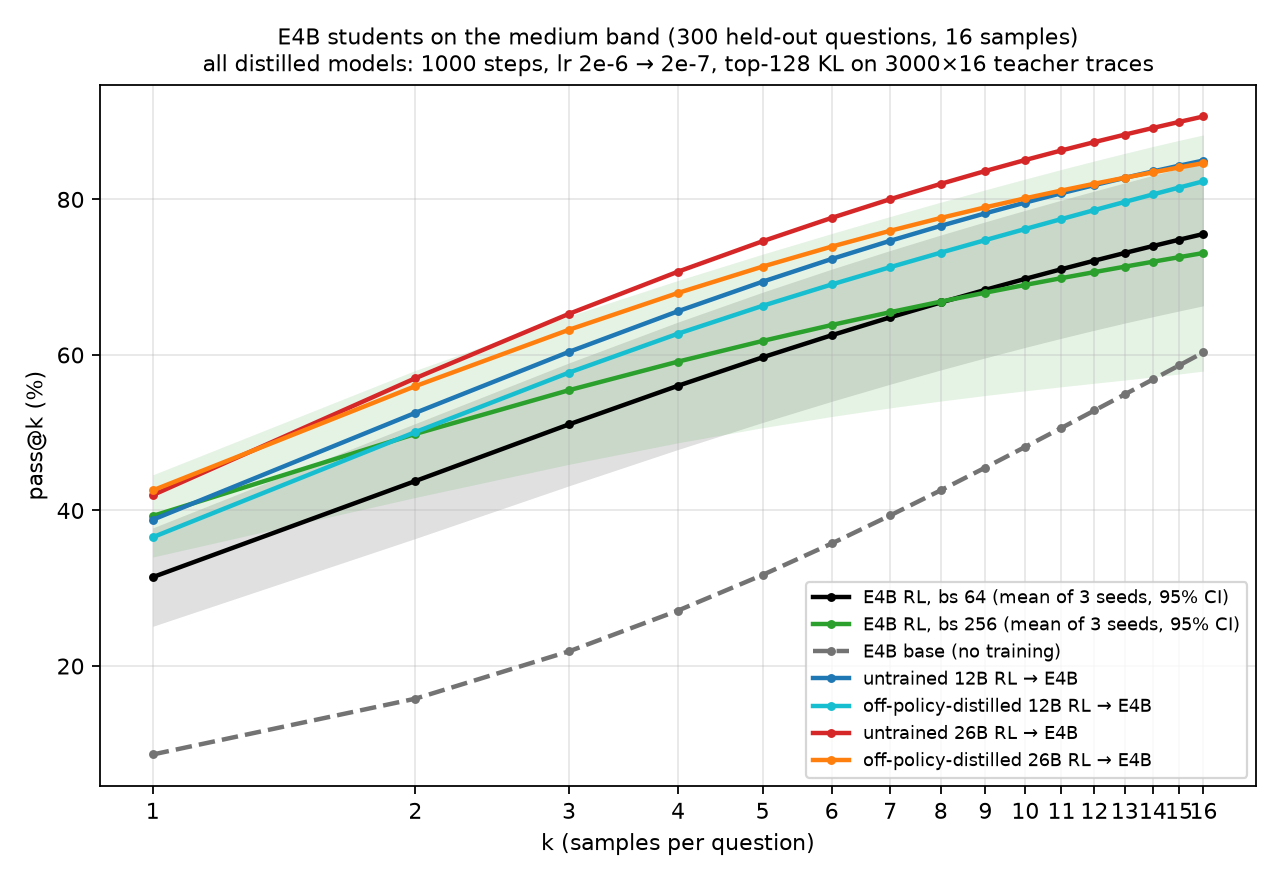
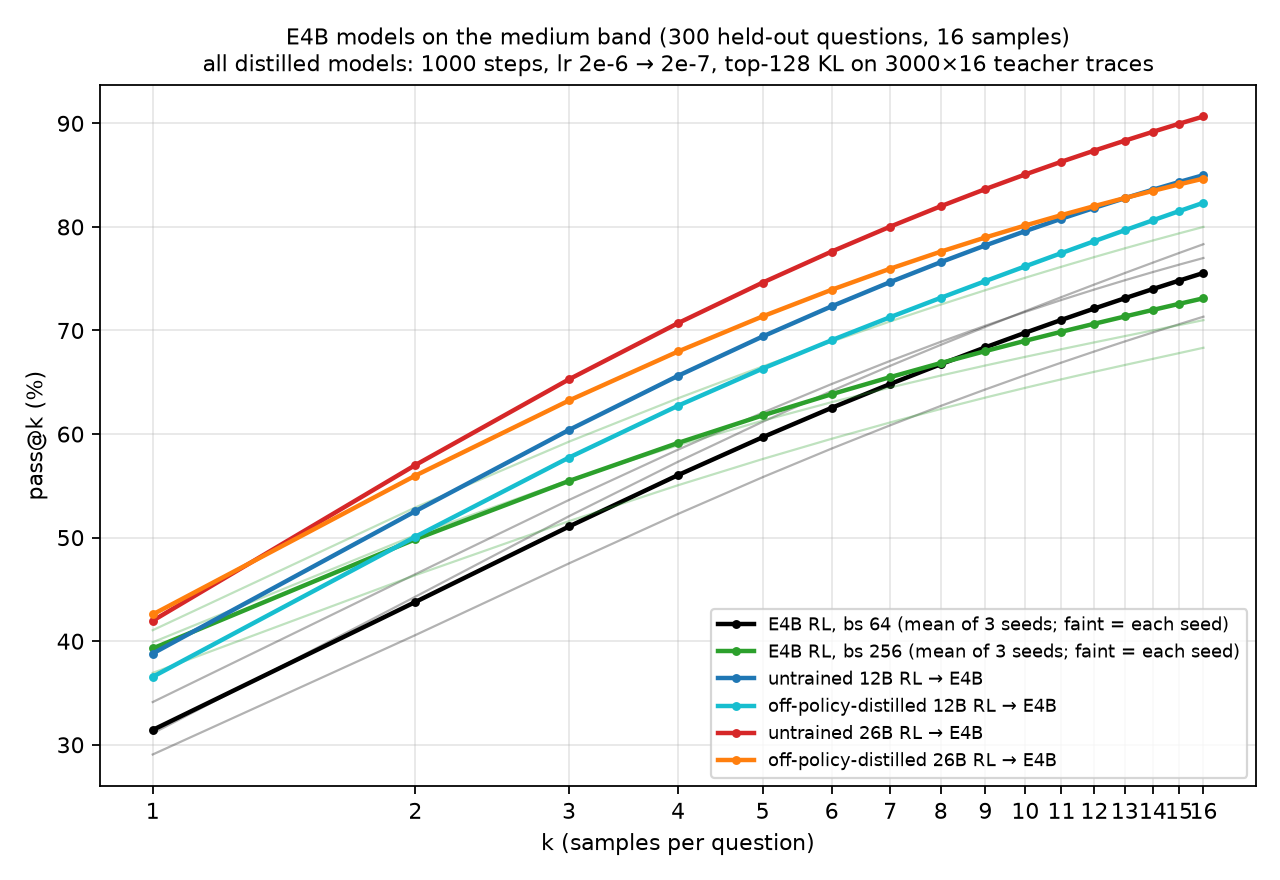
§9.0o summary figure: per-seed faint lines instead of CI bands, E4B base curve removed

diff --git a/rl-distill-scripts/plot_medium_passk_summary.py b/rl-distill-scripts/plot_medium_passk_summary.py
@@ -2,8 +2,7 @@
 """One-panel id_medium pass@k summary of the E4B distillation study (§9.0o wrap-up).
 
 Curves (unbiased pass@k, Chen et al. 2021, from the per-sample math-eval traces, 300 questions × 16 samples):
-  E4B base; E4B RL (bs 64, seeds 42/43/44) and E4B RL 4× batch (bs 256, seeds 45/46/47) as seed means with faint 95% CIs
-  (t-distribution, n = 3); and the four 1000-step 2e-6 → 2e-7 distilled students — teacher = untrained-12B RL, off-policy-distilled-12B RL,
+  E4B RL (bs 64, seeds 42/43/44) and E4B RL 4× batch (bs 256, seeds 45/46/47) as seed means with each seed as a faint line; and the four 1000-step 2e-6 → 2e-7 distilled students — teacher = untrained-12B RL, off-policy-distilled-12B RL,
   untrained-26B RL (warm-started run), off-policy-distilled-26B RL.
 
     python rl-distill-scripts/plot_medium_passk_summary.py [--out figures/passk_id_medium_summary.png]
@@ -13,27 +12,25 @@ from __future__ import annotations
 
 import argparse
 import json
-from math import comb, sqrt
+from math import comb
 from pathlib import Path
 
 import matplotlib
 matplotlib.use("Agg")
 import matplotlib.pyplot as plt
 import numpy as np
-from scipy import stats
 
 RESULTS = Path("/tmp/gemma4_distill_study_eval/results")
 DATASET = "id_medium"
 SINGLES = [  # (tag, label, color)
-    ("base_e4b", "E4B base (no training)", "0.45"),
     ("distill_12br_lr2e6_medium_to_e4b_step1000", "untrained 12B RL → E4B", "tab:blue"),
     ("distill_12bd_medium_to_e4b_step1000", "off-policy-distilled 12B RL → E4B", "tab:cyan"),
     ("distill_26bw_lr2e6_medium_to_e4b_step1000_n8", "untrained 26B RL → E4B", "tab:red"),
     ("distill_26bd_lr2e6_medium_to_e4b_step1000", "off-policy-distilled 26B RL → E4B", "tab:orange"),
 ]
 GROUPS = [  # (tags, label, color)
-    (["rl_e4b_medium", "rl_e4b_medium_s43", "rl_e4b_medium_s44"], "E4B RL, bs 64 (mean of 3 seeds, 95% CI)", "black"),
-    (["rl_e4b_medium_bs256_s45", "rl_e4b_medium_bs256_s46", "rl_e4b_medium_bs256_s47"], "E4B RL, bs 256 (mean of 3 seeds, 95% CI)", "tab:green"),
+    (["rl_e4b_medium", "rl_e4b_medium_s43", "rl_e4b_medium_s44"], "E4B RL, bs 64 (mean of 3 seeds; faint = each seed)", "black"),
+    (["rl_e4b_medium_bs256_s45", "rl_e4b_medium_bs256_s46", "rl_e4b_medium_bs256_s47"], "E4B RL, bs 256 (mean of 3 seeds; faint = each seed)", "tab:green"),
 ]
 
 
@@ -65,21 +62,21 @@ def main() -> int:
         curves = np.stack([pass_at_k_curve(t) for t in tags])
         ks = np.arange(1, curves.shape[1] + 1)
         mean = curves.mean(axis=0)
-        half = stats.t.ppf(0.975, len(tags) - 1) * curves.std(axis=0, ddof=1) / sqrt(len(tags))
-        ax.fill_between(ks, mean - half, mean + half, color=color, alpha=0.12, lw=0)
+        for curve in curves:
+            ax.plot(ks, curve, color=color, lw=1, alpha=0.3)
         ax.plot(ks, mean, color=color, lw=2, marker="o", ms=3, label=label)
-        print(f"{label}: pass@1 {mean[0]:.1f}±{half[0]:.1f}  pass@16 {mean[-1]:.1f}±{half[-1]:.1f}")
+        print(f"{label}: pass@1 {mean[0]:.1f} (seeds {', '.join(f'{c[0]:.1f}' for c in curves)})  pass@16 {mean[-1]:.1f} (seeds {', '.join(f'{c[-1]:.1f}' for c in curves)})")
     for tag, label, color in SINGLES:
         curve = pass_at_k_curve(tag)
         ks = np.arange(1, len(curve) + 1)
-        ax.plot(ks, curve, color=color, lw=2, marker="o", ms=3, ls="--" if tag == "base_e4b" else "-", label=label)
+        ax.plot(ks, curve, color=color, lw=2, marker="o", ms=3, label=label)
         print(f"{label}: pass@1 {curve[0]:.1f}  pass@16 {curve[-1]:.1f}")
     ax.set_xscale("log", base=2)
     ax.set_xticks(ks)
     ax.set_xticklabels([str(k) for k in ks])
     ax.set_xlabel("k (samples per question)")
     ax.set_ylabel("pass@k (%)")
-    ax.set_title("E4B students on the medium band (300 held-out questions, 16 samples)\nall distilled models: 1000 steps, lr 2e-6 → 2e-7, top-128 KL on 3000×16 teacher traces", fontsize=10)
+    ax.set_title("E4B models on the medium band (300 held-out questions, 16 samples)\nall distilled models: 1000 steps, lr 2e-6 → 2e-7, top-128 KL on 3000×16 teacher traces", fontsize=10)
     ax.grid(alpha=0.3, which="both")
     ax.legend(fontsize=8, loc="lower right")
     fig.tight_layout()

diff --git a/rl-distill-scripts/DISTILLATION_EXPERIMENTS.md b/rl-distill-scripts/DISTILLATION_EXPERIMENTS.md
@@ -2173,9 +2173,10 @@ is the obvious next knob. All checkpoints (250/500/750/1000 + 50-step HF exports
 ckpts-v1` and `gemma4-distill-study-evals-v1` prefixes; RL teachers stopped, all ScaleTrain jobs for this section terminal.
 
 **Summary figure (2026-09-23):** `figures/passk_id_medium_summary.png` (`plot_medium_passk_summary.py`) — id_medium pass@k for k = 1…16, one
-panel: E4B base; E4B RL bs 64 (seeds 42/43/44) and bs 256 (seeds 45/46/47) as seed means with faint 95% CIs (t, n = 3); and the four
-1000-step 2e-6 students (teachers: untrained 12B RL, off-policy-distilled 12B RL, untrained 26B RL (warm-started run), off-policy-distilled 26B RL).
-pass@1 / pass@16: RL bs 64 31.4±6.3 / 75.6±9.2, RL bs 256 39.3±5.3 / 73.1±15.2, base 8.6 / 60.3, 12B-untrained student 38.8 / 85.0,
+panel: E4B RL bs 64 (seeds 42/43/44) and bs 256 (seeds 45/46/47) as seed means with each seed as a faint line (CI bands and the E4B base
+curve dropped for readability, 09-23); and the four 1000-step 2e-6 students (teachers: untrained 12B RL, off-policy-distilled 12B RL, untrained
+26B RL (warm-started run), off-policy-distilled 26B RL). pass@1 / pass@16: RL bs 64 31.4 / 75.6 (seeds 29.1–34.1 / 71.3–78.3), RL bs 256
+39.3 / 73.1 (seeds 36.9–41.1 / 68.3–80.0), E4B base (not plotted) 8.6 / 60.3, 12B-untrained student 38.8 / 85.0,
 12B-distilled student 36.6 / 82.3, 26B-untrained student 42.0 / 90.7, 26B-distilled student 42.6 / 84.7. Every distilled student sits above
 both RL means from k ≈ 4 onward; the 26B-untrained student is above everything at every k.
 
